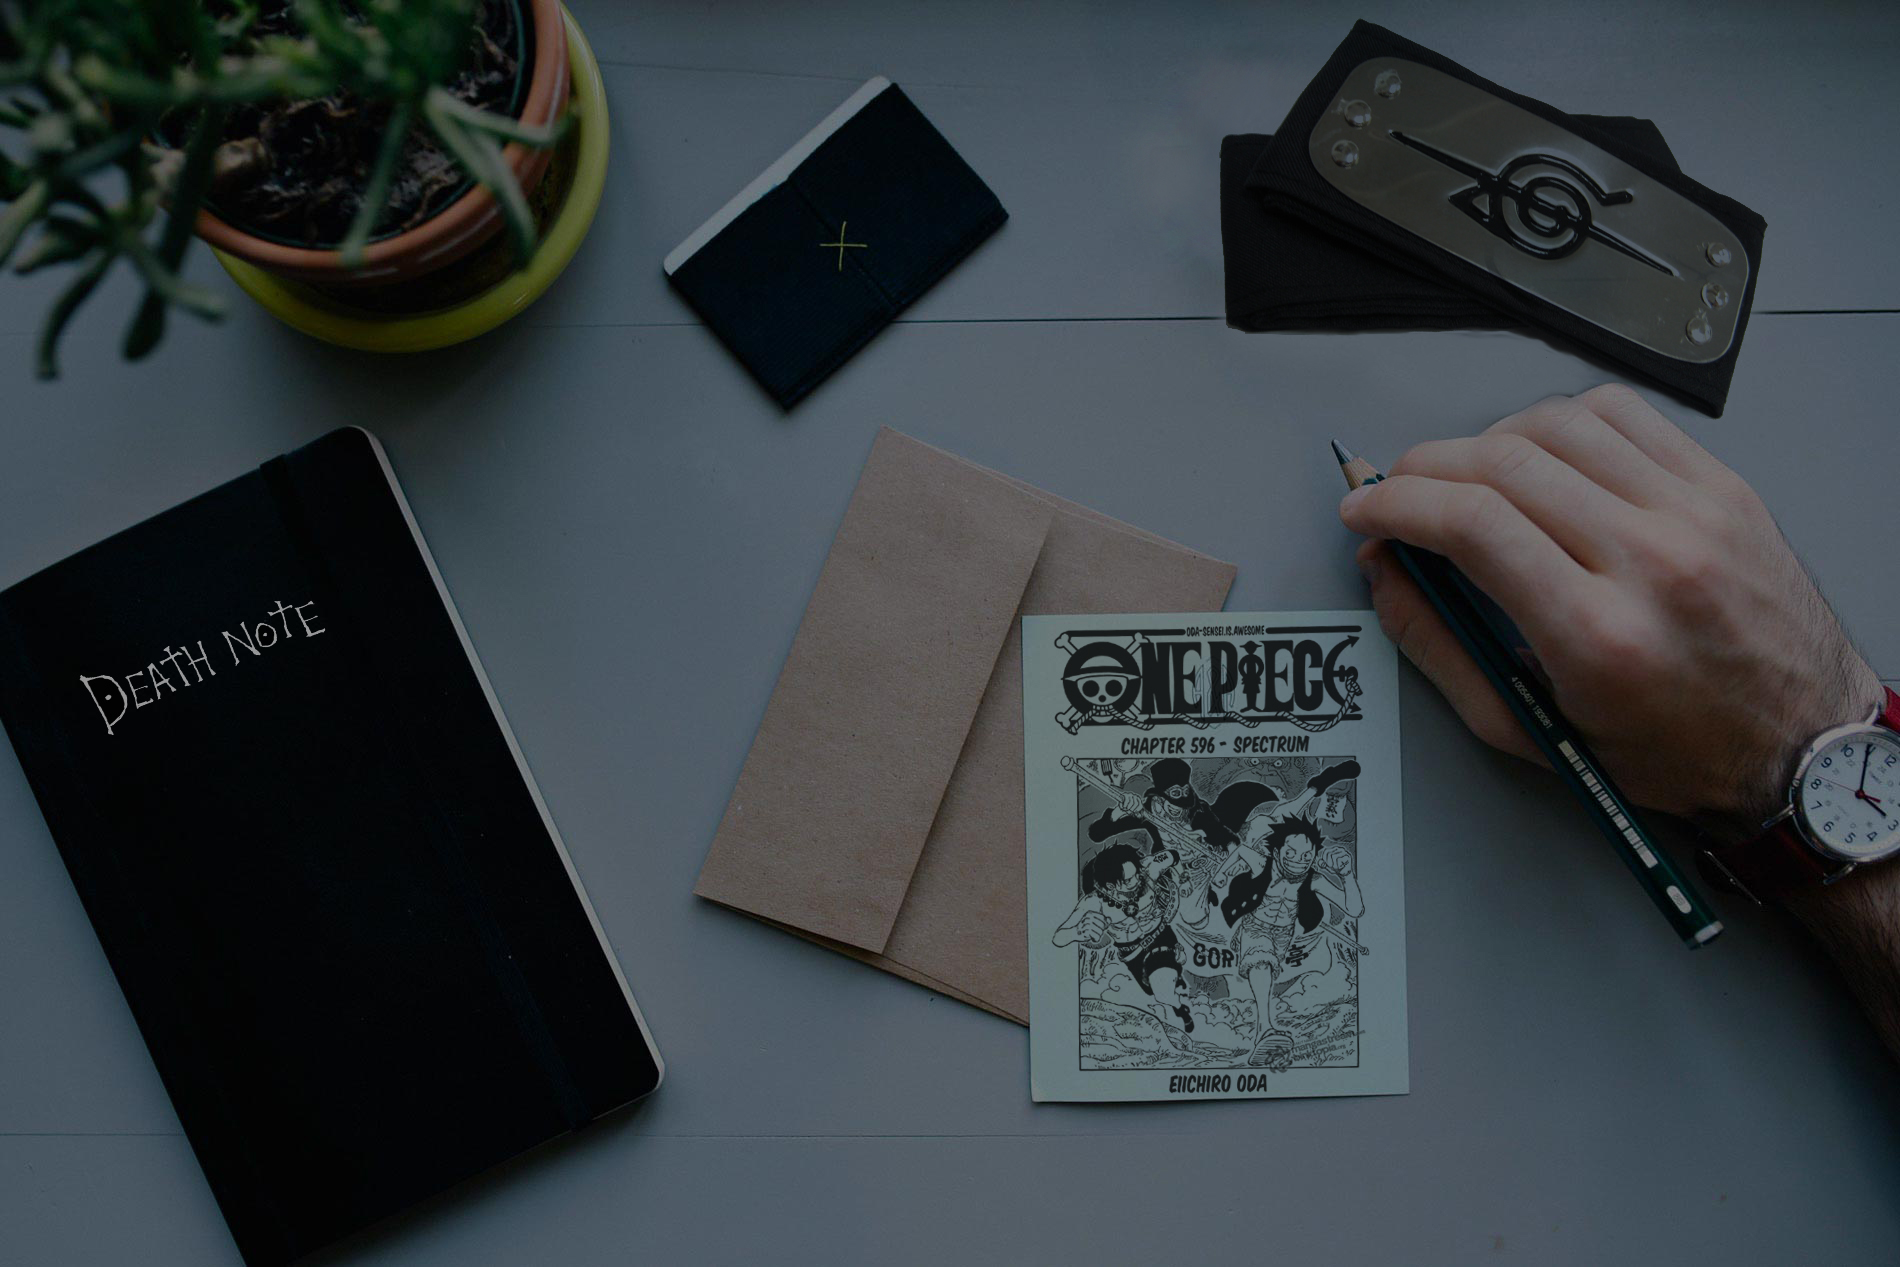
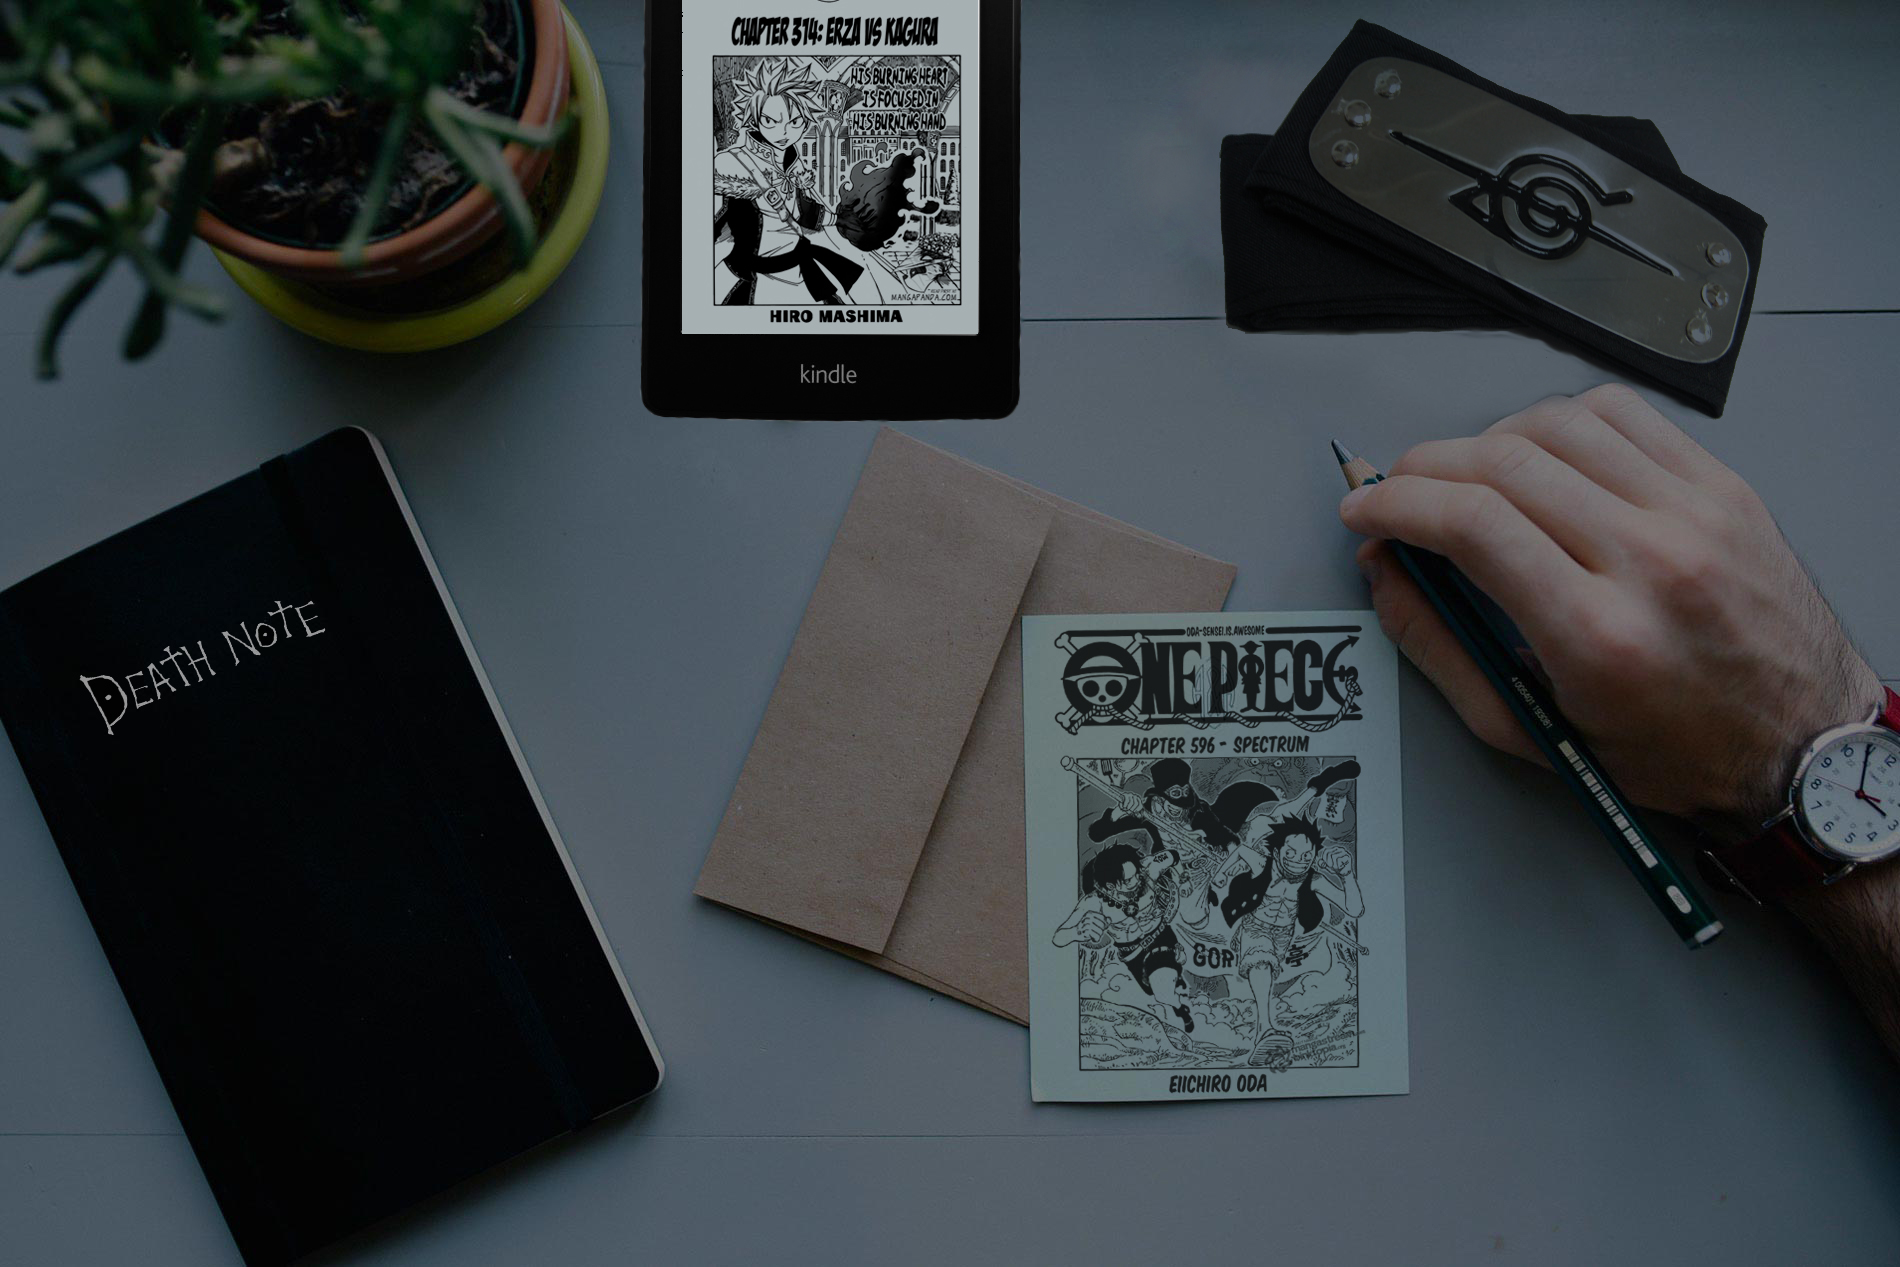
cambiata immagine e messo kindle gen

Changed region(s): [[0.3105, 0.0, 0.5589, 0.3386]]

diff --git a/index.html b/index.html
@@ -25,7 +25,7 @@
     <script type='text/javascript' src='js/bootstrap.min.js'></script>
     <script type='text/javascript'>
         $(function(){
-            $("#nav a[href^='#']").on('click', function(e) {
+            $("a[href^='#']").on('click', function(e) {
 
                 // prevent default anchor click behavior
                 e.preventDefault();
@@ -36,7 +36,7 @@
                 // animate
                 $('html, body').animate({
                     scrollTop: $(this.hash).offset().top
-                  }, 300, function(){
+                  }, 500, function(){
 
                     // when done, add hash to url
                     // (default click behaviour)
@@ -68,11 +68,11 @@
             <!-- Collect the nav links, forms, and other content for toggling -->
             <div id='nav' class="collapse navbar-collapse navbar-right navbar-ex1-collapse">
                 <ul class="nav navbar-nav">
-                    <li><a href="#download">Download</a>
+                    <li><a href="#download"><span class="glyphicon glyphicon-download"></span>Download</a>
                     </li>
-                    <li><a href="#convert">Convert</a>
+                    <li><a href="#convert"><span class="glyphicon glyphicon-compressed"></span>Convert</a>
                     </li>
-                    <li><a href="#read">Read</a>
+                    <li><a href="#read"><span class="glyphicon glyphicon-eye-open"></span>Read</a>
                     </li>
                 </ul>
             </div>
@@ -91,14 +91,18 @@
                         <h1>Read your manga on Kindle</h1>
                         <h3>Download, convert and read your manga easily on Kindle</h3>
                         <hr class="intro-divider">
-                        <!--ul class="list-inline intro-social-buttons">
-                            <li><a href="https://twitter.com/SBootstrap" class="btn btn-default btn-lg"><i class="fa fa-twitter fa-fw"></i> <span class="network-name">Twitter</span></a>
+                        <ul class="list-inline intro-social-buttons">
+                             <li>
+                                 <a href="#download" class="img-circle gotodownload ">
+                                     <i class="glyphicon glyphicon-chevron-down"></i> </a>
+                            </li>
+                            <!--li><a href="https://twitter.com/SBootstrap" class="btn btn-default btn-lg"><i class="fa fa-twitter fa-fw"></i> <span class="network-name">Twitter</span></a>
                             </li>
                             <li><a href="https://github.com/IronSummitMedia/startbootstrap" class="btn btn-default btn-lg"><i class="fa fa-github fa-fw"></i> <span class="network-name">Github</span></a>
                             </li>
                             <li><a href="#" class="btn btn-default btn-lg"><i class="fa fa-linkedin fa-fw"></i> <span class="network-name">Linkedin</span></a>
-                            </li>
-                        </ul-->
+                            </li-->
+                        </ul>
                     </div>
                 </div>
             </div>
@@ -223,7 +227,7 @@
         <div class="container">
             <div class="row">
                 <div class="col-lg-12">
-                    <ul class="list-inline">
+                    <!--ul class="list-inline">
                         <li><a href="#home">Home</a>
                         </li>
                         <li class="footer-menu-divider">&sdot;</li>
@@ -235,8 +239,8 @@
                         <li class="footer-menu-divider">&sdot;</li>
                         <li><a href="#contact">Contact</a>
                         </li>
-                    </ul>
-                    <p class="copyright text-muted small">Copyright &copy; Your Company 2013. All Rights Reserved</p>
+                    </ul-->
+                    <p class="copyright text-muted small">Copyright &copy; Luca Innocenti 2014. All Rights Reserved</p>
                 </div>
             </div>
         </div>

diff --git a/css/landing-page.css b/css/landing-page.css
@@ -151,3 +151,12 @@ footer {
 p.copyright {
 	margin: 15px 0 0;
 }
+
+.navbar-nav > li > a {
+  font-size: 16px;
+}
+.navbar-nav > li > a span{
+    padding-right: 4px;
+    top: 3px;
+}
+.gotodownload{height: 40px;width: 40px;display: inline-block;padding-top: 7px;background-color: #fff;font-size: 24px;}

diff --git a/css/bootstrap.css b/css/bootstrap.css
@@ -3830,7 +3830,7 @@ select[multiple].input-group-sm > .input-group-btn > .btn {
   .navbar-nav > li > a {
     padding-top: 15px;
     padding-bottom: 15px;
-  }
+}
   .navbar-nav.navbar-right:last-child {
     margin-right: -15px;
   }
